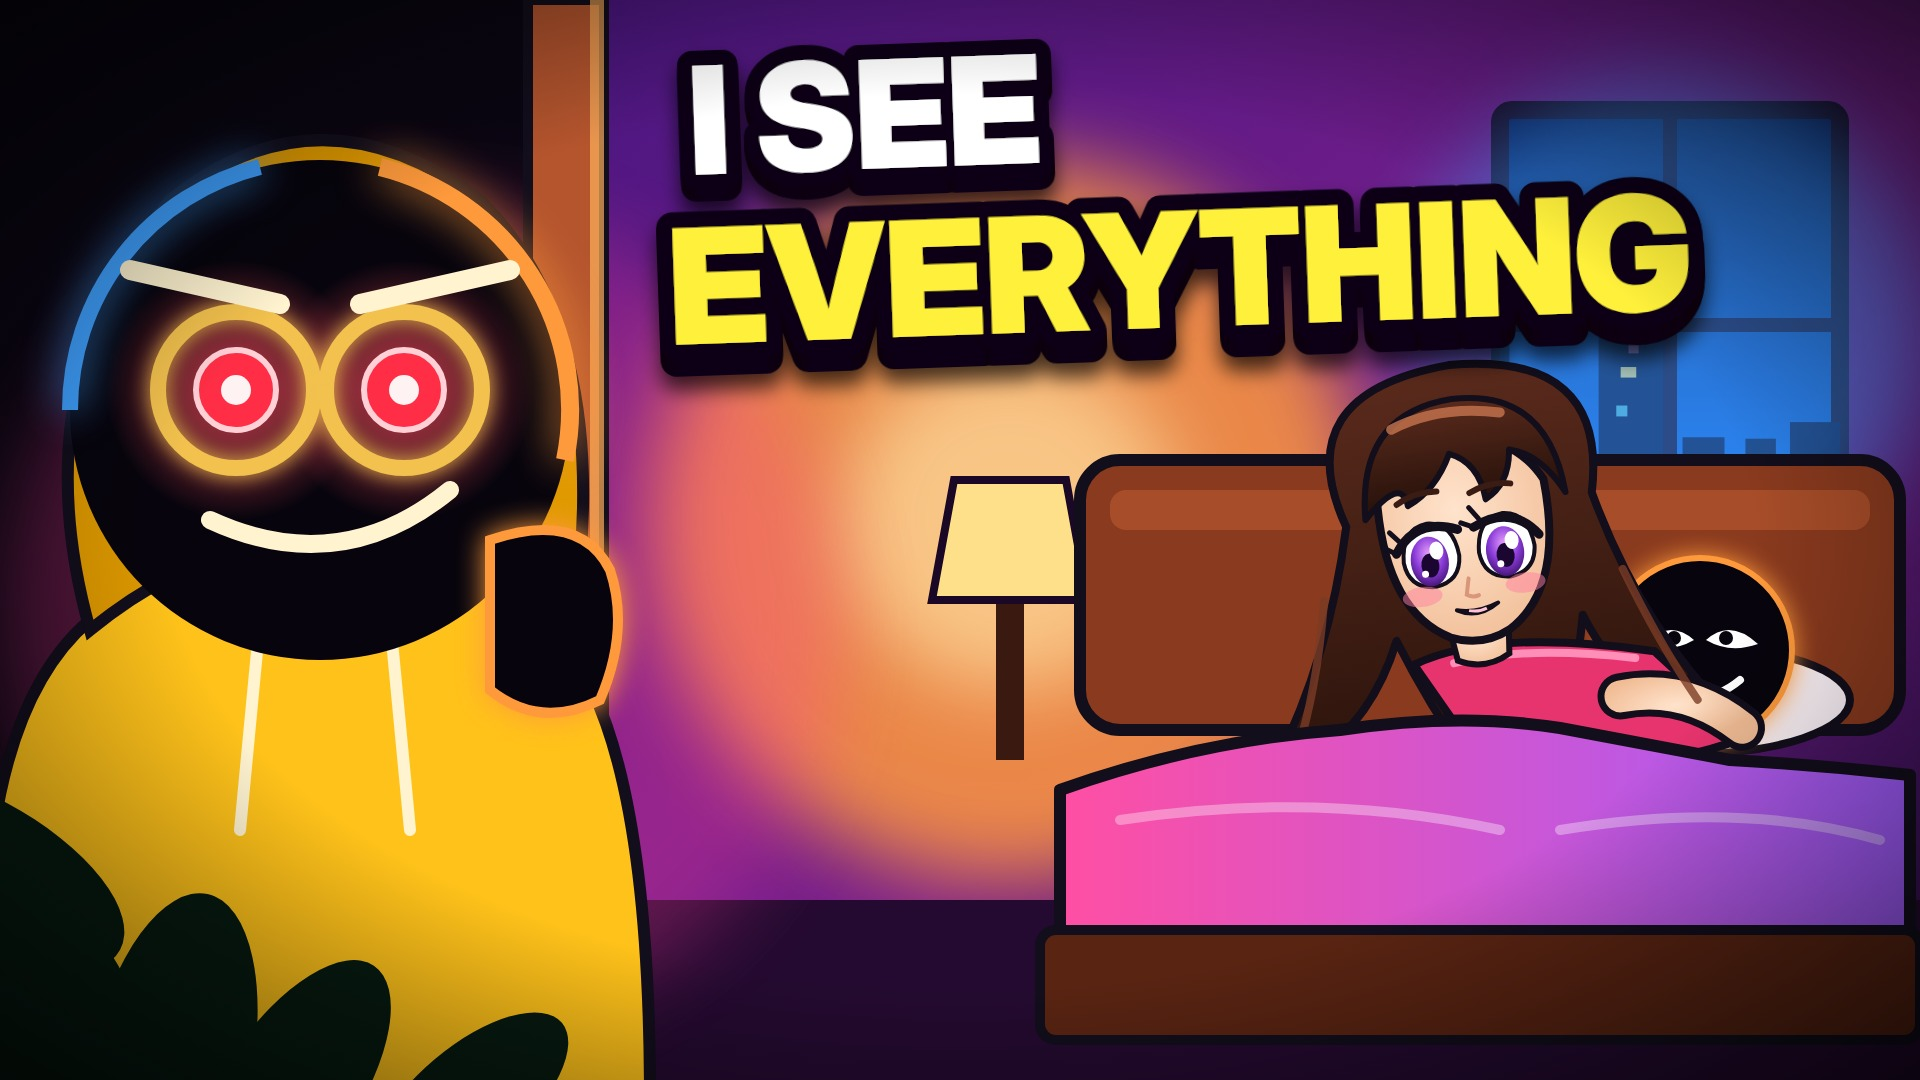
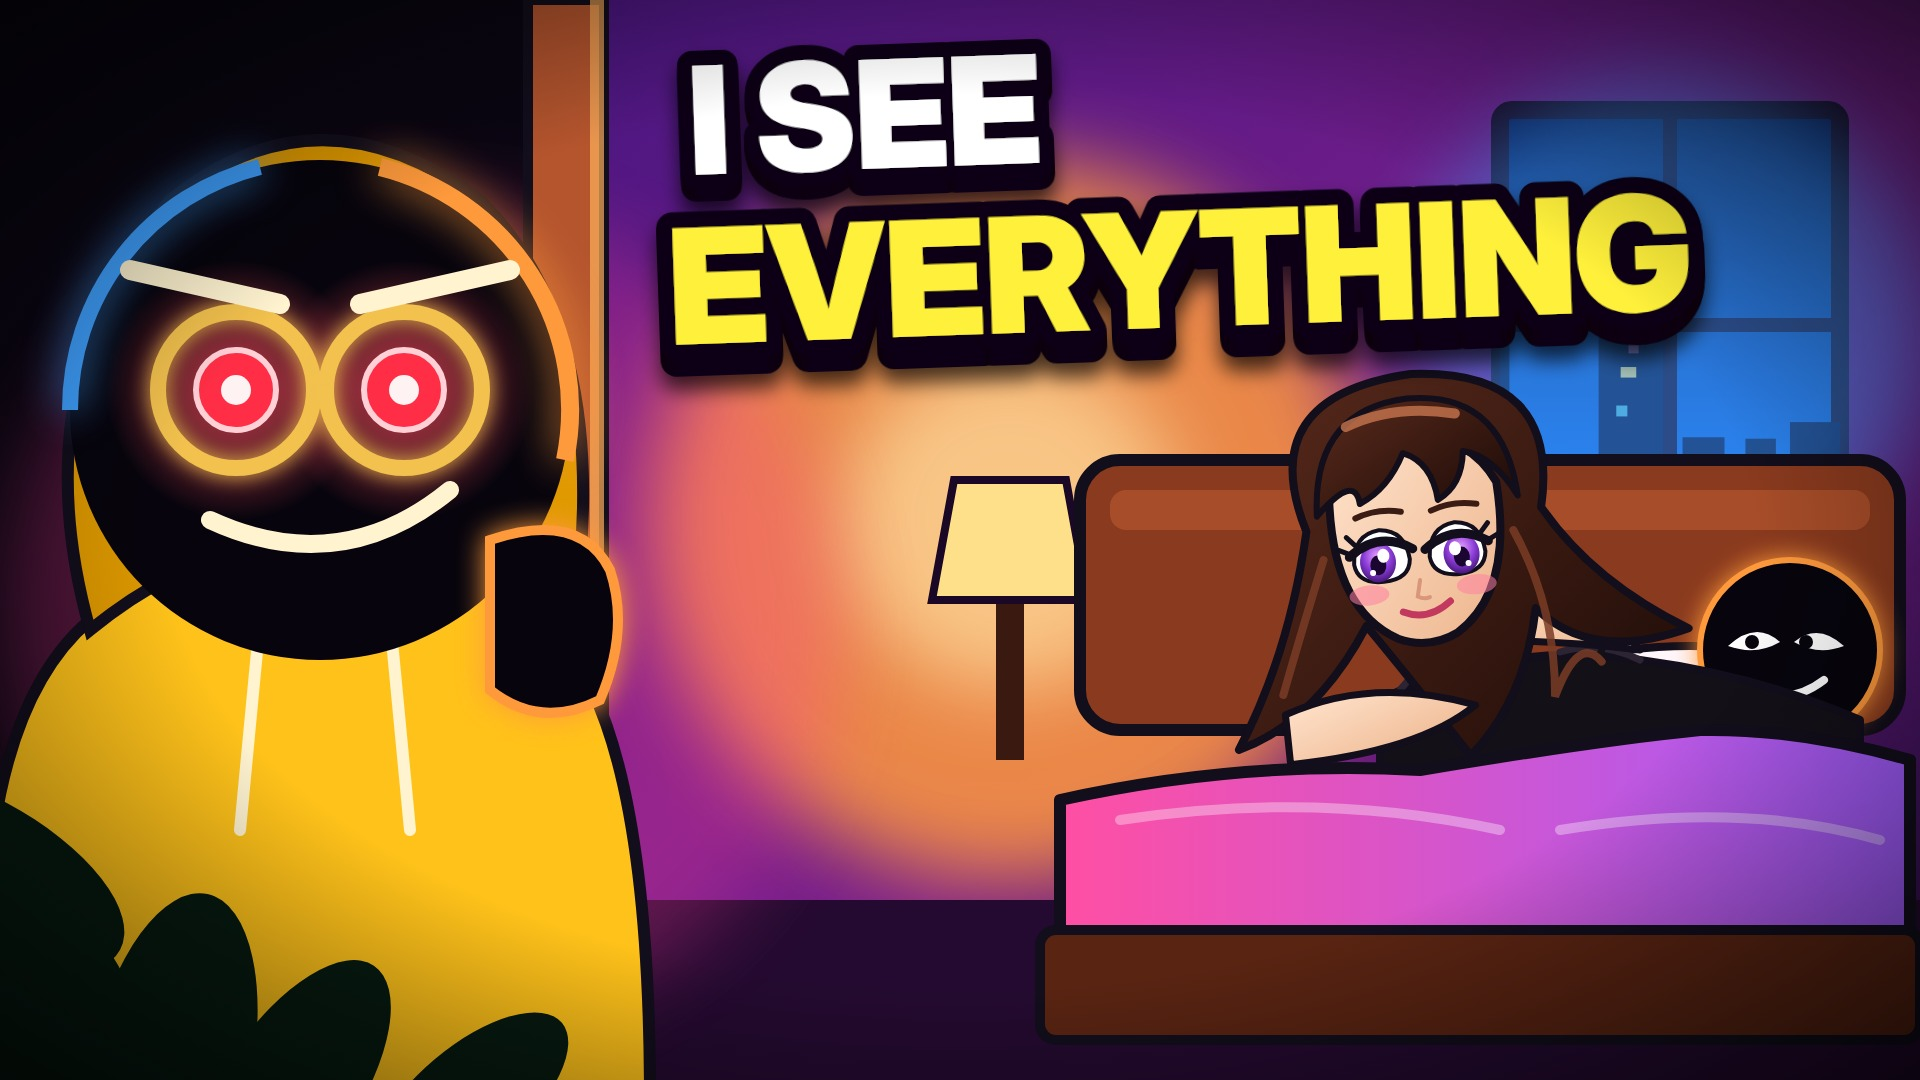
016 peek thumbnail: she lies on her stomach looking back, like the reference pose
Claude-Session: https://claude.ai/code/session_019ai2m2MxcJnxMHWqzPuaSF

Changed region(s): [[0.5312, 0.3361, 1.0, 0.7639]]

diff --git a/episodes/016-invisible/thumb4.html b/episodes/016-invisible/thumb4.html
@@ -24,43 +24,45 @@ const th_bed=`
  <rect x="1110" y="490" width="760" height="40" rx="16" fill="#B5552E" opacity=".7"/>
  <ellipse cx="1690" cy="700" rx="160" ry="54" fill="#FFF6FB" stroke="${INK}" stroke-width="8"/>
 
- <!-- him: black shadow stickman with white sneaky eyes, lying on the pillow -->
- <g transform="translate(1700,650)">
-  <circle r="92" fill="#07040D" stroke="${W_}" stroke-width="6" style="filter:drop-shadow(0 0 12px ${W_})"/>
-  <path d="M-58 -6 Q-30 -32 -6 -10 Q-30 4 -58 -6Z M58 -6 Q30 -32 6 -10 Q30 4 58 -6Z" fill="#fff"/>
-  <circle cx="-26" cy="-12" r="7" fill="#07040D"/><circle cx="26" cy="-12" r="7" fill="#07040D"/>
-  <path d="M-30 40 Q6 58 40 30" stroke="#fff" stroke-width="8" fill="none" stroke-linecap="round"/>
- </g>
 
- <!-- her: polished anime style (adult): glossy hair with shine, lashes, gradient eyes, lip colour, fitted top -->
  <defs>
-  <linearGradient id="gHair" x1="0" y1="0" x2="0" y2="1"><stop offset="0" stop-color="#5A2A1C"/><stop offset="1" stop-color="#24100A"/></linearGradient>
+  <linearGradient id="gHair" x1="0" y1="0" x2="1" y2="1"><stop offset="0" stop-color="#5A2A1C"/><stop offset="1" stop-color="#1E0C08"/></linearGradient>
   <radialGradient id="gIris" cx="50%" cy="35%" r="70%"><stop offset="0" stop-color="#E8A0FF"/><stop offset=".55" stop-color="#8A3BD8"/><stop offset="1" stop-color="#3A0F66"/></radialGradient>
-  <radialGradient id="gSkin" cx="45%" cy="35%" r="75%"><stop offset="0" stop-color="#FFE3CC"/><stop offset="1" stop-color="#F1BC95"/></radialGradient>
+  <linearGradient id="gSkin" x1="0" y1="0" x2="1" y2="1"><stop offset="0" stop-color="#FFE3CC"/><stop offset="1" stop-color="#EDB48C"/></linearGradient>
  </defs>
- <g transform="translate(1470,560) rotate(-8)">
-  <path d="M-118 -50 Q-160 -190 6 -196 Q166 -188 130 -50 Q160 90 236 190 Q140 176 104 70 Q80 180 0 250 Q-50 170 -84 70 Q-130 170 -236 196 Q-156 90 -118 -50Z" fill="url(#gHair)" stroke="${INK}" stroke-width="8" stroke-linejoin="round"/>
-  <path d="M-70 96 Q10 70 170 116 L250 214 Q130 240 -14 206Z" fill="#E8346E" stroke="${INK}" stroke-width="8" stroke-linejoin="round"/>
-  <path d="M-30 100 Q40 92 150 120" stroke="#FF8FB8" stroke-width="8" fill="none" stroke-linecap="round"/>
-  <path d="M130 156 Q196 152 246 204" stroke="${INK}" stroke-width="46" fill="none" stroke-linecap="round"/><path d="M130 156 Q196 152 246 204" stroke="url(#gSkin)" stroke-width="32" fill="none" stroke-linecap="round"/>
-  <path d="M-30 64 Q0 96 30 64 L26 98 Q0 112 -26 98Z" fill="url(#gSkin)" stroke="${INK}" stroke-width="6"/>
-  <path d="M-84 -70 Q-90 40 -30 74 Q0 88 30 74 Q90 40 84 -70 Q60 -120 0 -122 Q-60 -120 -84 -70Z" fill="url(#gSkin)" stroke="${INK}" stroke-width="8" stroke-linejoin="round"/>
+ <!-- him: shadow stickman lying on the pillow, smirking at the door -->
+ <g transform="translate(1790,650)">
+  <circle r="90" fill="#07040D" stroke="${W_}" stroke-width="6" style="filter:drop-shadow(0 0 12px ${W_})"/>
+  <path d="M-62 -4 Q-34 -30 -10 -8 Q-34 6 -62 -4Z M54 -4 Q28 -28 4 -8 Q28 6 54 -4Z" fill="#fff"/>
+  <circle cx="-38" cy="-8" r="7" fill="#07040D"/><circle cx="16" cy="-8" r="7" fill="#07040D"/>
+  <path d="M-36 40 Q0 56 34 30" stroke="#fff" stroke-width="8" fill="none" stroke-linecap="round"/>
+ </g>
+ <!-- her: lying on her stomach across the bed, looking back over her shoulder -->
+ <g>
+  <path d="M1380 700 Q1500 640 1640 660 Q1760 676 1860 720 L1860 800 L1380 800Z" fill="#141018" stroke="${INK}" stroke-width="8" stroke-linejoin="round"/>
+  <path d="M1400 690 Q1440 640 1500 650 M1560 652 Q1600 640 1640 660" stroke="#2C2433" stroke-width="7" fill="none" stroke-linecap="round"/>
+  <path d="M1470 660 L1500 600 M1600 656 L1612 610" stroke="#141018" stroke-width="7" stroke-linecap="round"/>
+  <path d="M1462 640 Q1500 600 1560 606 Q1610 612 1640 650 Q1560 640 1462 640Z" fill="url(#gSkin)" stroke="${INK}" stroke-width="7" stroke-linejoin="round"/>
+ </g>
+ <g transform="translate(1420,560) rotate(-6)">
+  <path d="M-110 -40 Q-150 -180 10 -186 Q160 -176 126 -40 Q170 40 260 96 Q160 120 110 60 Q90 150 30 200 Q-20 120 -60 60 Q-120 150 -200 170 Q-140 80 -110 -40Z" fill="url(#gHair)" stroke="${INK}" stroke-width="8" stroke-linejoin="round"/>
+  <path d="M-150 140 Q-60 110 40 150 Q-20 190 -150 190Z" fill="url(#gSkin)" stroke="${INK}" stroke-width="7" stroke-linejoin="round"/>
+  <path d="M-84 -70 Q-92 40 -30 76 Q0 90 30 76 Q90 40 84 -70 Q60 -122 0 -124 Q-60 -122 -84 -70Z" fill="url(#gSkin)" stroke="${INK}" stroke-width="8" stroke-linejoin="round"/>
   <path d="M-98 -54 Q-92 -160 4 -162 Q100 -160 104 -54 Q84 -96 54 -104 Q50 -70 24 -58 Q22 -96 -6 -108 Q-24 -74 -54 -62 Q-56 -94 -98 -54Z" fill="url(#gHair)" stroke="${INK}" stroke-width="6" stroke-linejoin="round"/>
   <path d="M-60 -140 Q-10 -158 50 -142" stroke="#C7754F" stroke-width="10" fill="none" stroke-linecap="round" opacity=".8"/>
-  <path d="M-150 20 Q-170 110 -200 170 M150 30 Q176 110 206 170" stroke="#7A3C26" stroke-width="8" fill="none" stroke-linecap="round" opacity=".8"/>
-  ${[-1,1].map(d=>`<g transform="translate(${d*38},-10) scale(${-d},1)">
-    <path d="M-28 4 Q-26 -30 0 -32 Q26 -30 28 4 Q26 30 0 32 Q-26 30 -28 4Z" fill="#fff" stroke="${INK}" stroke-width="4"/>
-    <ellipse cx="${d*2}" cy="6" rx="19" ry="25" fill="url(#gIris)"/><ellipse cx="${d*2}" cy="10" rx="9" ry="12" fill="#1A0630"/>
-    <ellipse cx="${d*-6}" cy="-4" rx="7" ry="9" fill="#fff"/><circle cx="${d*8}" cy="18" r="3.5" fill="#fff"/>
-    <path d="M-34 -6 Q-10 -40 30 -22" stroke="${INK}" stroke-width="9" fill="none" stroke-linecap="round"/>
-    <path d="${d<0?'M-34 -6 l-12 -8 M-28 -16 l-10 -12':'M30 -22 l12 -6 M24 -30 l8 -12'}" stroke="${INK}" stroke-width="5" stroke-linecap="round"/>
-    <path d="M-20 -52 Q0 -60 22 -54" stroke="#3A1C14" stroke-width="6" fill="none" stroke-linecap="round" transform="translate(0,-6) rotate(${d*8})"/></g>`).join('')}
-  <path d="M-4 18 L-8 34 Q-2 38 4 36" stroke="#D9967A" stroke-width="4" fill="none" stroke-linecap="round"/>
-  <ellipse cx="-52" cy="30" rx="20" ry="10" fill="#FF7FA0" opacity=".5"/><ellipse cx="52" cy="30" rx="20" ry="10" fill="#FF7FA0" opacity=".5"/>
-  <path d="M-20 48 Q0 60 22 46 Q0 54 -20 48Z" fill="#E0436E" stroke="${INK}" stroke-width="4" stroke-linejoin="round"/>
-  <path d="M-8 50 Q2 53 10 50" stroke="#FFC2D4" stroke-width="3" fill="none"/>
+  <path d="M96 -20 Q130 60 120 150 Q150 90 170 120 M-96 -10 Q-130 70 -150 120" stroke="#7A3C26" stroke-width="8" fill="none" stroke-linecap="round" opacity=".85"/>
+  ${[-1,1].map(d=>`<g transform="translate(${d*38},-8)">
+    <path d="M-28 6 Q-26 -24 0 -26 Q26 -24 28 6 Q26 26 0 26 Q-26 26 -28 6Z" fill="#fff" stroke="${INK}" stroke-width="4"/>
+    <ellipse cx="${d*4}" cy="6" rx="18" ry="20" fill="url(#gIris)"/><ellipse cx="${d*4}" cy="9" rx="8" ry="10" fill="#1A0630"/>
+    <ellipse cx="${d*-2}" cy="0" rx="6" ry="7" fill="#fff"/><circle cx="${d*10}" cy="16" r="3" fill="#fff"/>
+    <path d="M-32 -2 Q0 -26 32 -4" stroke="${INK}" stroke-width="9" fill="none" stroke-linecap="round"/>
+    <path d="M${d*30} -4 l${d*12} -6 M${d*24} -12 l${d*9} -10" stroke="${INK}" stroke-width="5" stroke-linecap="round"/>
+    <path d="M-22 -40 Q0 -48 24 -42" stroke="#3A1C14" stroke-width="6" fill="none" stroke-linecap="round"/></g>`).join('')}
+  <path d="M-2 20 L-6 36 Q0 40 6 38" stroke="#D9967A" stroke-width="4" fill="none" stroke-linecap="round"/>
+  <ellipse cx="-54" cy="30" rx="20" ry="10" fill="#FF7FA0" opacity=".55"/><ellipse cx="54" cy="30" rx="20" ry="10" fill="#FF7FA0" opacity=".55"/>
+  <path d="M-22 50 Q2 62 26 44" stroke="#C2385F" stroke-width="7" fill="none" stroke-linecap="round"/>
  </g>
- <path d="M1060 790 Q1200 740 1340 730 Q1460 712 1560 728 Q1650 745 1730 760 Q1820 765 1910 775 L1910 960 L1060 960Z" fill="url(#thSheet)" stroke="${INK}" stroke-width="12" stroke-linejoin="round"/>
+ <path d="M1060 800 Q1240 760 1420 770 Q1600 740 1700 730 Q1800 728 1910 760 L1910 960 L1060 960Z" fill="url(#thSheet)" stroke="${INK}" stroke-width="12" stroke-linejoin="round"/>
  <path d="M1120 820 Q1320 790 1500 830 M1560 830 Q1740 800 1880 840" stroke="#FFFFFF" stroke-opacity=".35" stroke-width="10" fill="none" stroke-linecap="round"/>
  <rect x="1040" y="930" width="880" height="110" rx="16" fill="#5A2412" stroke="${INK}" stroke-width="10"/>`;
 const th_door=`
